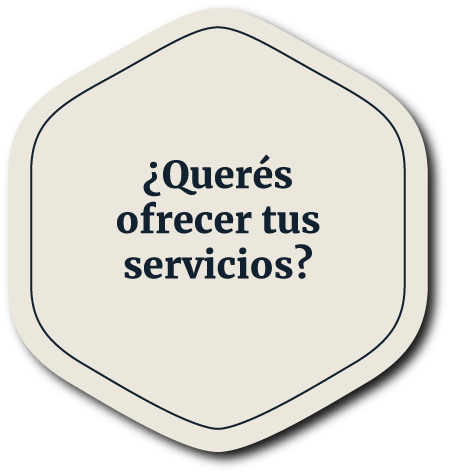
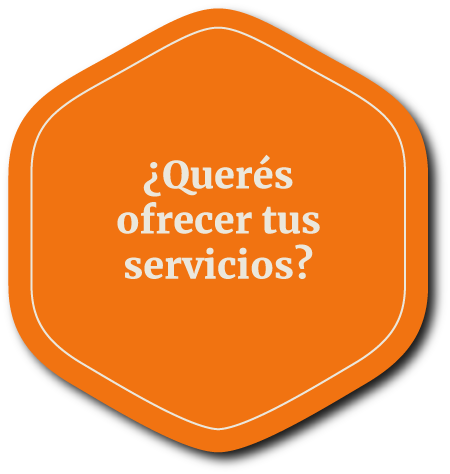
chore(home): button change

diff --git a/soluva/lib/screens/home_screen.dart b/soluva/lib/screens/home_screen.dart
@@ -2,7 +2,7 @@ import 'package:flutter/material.dart';
 import 'package:flutter_dotenv/flutter_dotenv.dart';
 import 'package:shared_preferences/shared_preferences.dart';
 import 'package:soluva/screens/auth_screen.dart';
-import 'package:soluva/screens/search_workers_screen.dart';
+// import 'package:soluva/screens/search_workers_screen.dart';
 import 'package:soluva/screens/worker_application_screen.dart';
 import 'package:soluva/screens/workers_list_screen.dart';
 import 'package:soluva/widgets/header_widget.dart';
@@ -44,7 +44,7 @@ class _HomePageState extends State<HomePage> {
         dotenv.env['default_cover_webp'] ?? 'assets/images/fondo-inicio.webp';
     final offerServiceBtn =
         dotenv.env['offer_service_button'] ??
-        'assets/images/boton_ofrecer_servicio.webp';
+        'assets/images/boton_ofrecer_servicio.png';
     final searchServiceBtn =
         dotenv.env['search_service_button'] ??
         'assets/images/boton_buscar_servicio.webp';
@@ -416,13 +416,27 @@ class _MainImageButton extends StatelessWidget {
 
   @override
   Widget build(BuildContext context) {
+    final screenWidth = MediaQuery.of(context).size.width;
+
+    // Calcular el ancho del botón como el 40% del ancho de la pantalla
+    // restando el espacio entre botones y los márgenes
+    final buttonWidth = (screenWidth - 48) * 0.45; // 48 = espaciado aproximado
+    final buttonHeight = buttonWidth * 1.02; // Mantener relación de aspecto similar a 210:215
+
+    // Establecer límites mínimos y máximos para evitar tamaños extremos
+    final finalWidth = buttonWidth.clamp(150.0, 250.0);
+    final finalHeight = buttonHeight.clamp(153.0, 255.0);
+
     return GestureDetector(
       onTap: onTap,
       child: ClipRRect(
-        borderRadius: BorderRadius.circular(
-          32,
-        ), // opcional, para bordes redondeados
-        child: Image.asset(image, width: 210, height: 215, fit: BoxFit.cover),
+        borderRadius: BorderRadius.circular(32),
+        child: Image.asset(
+          image,
+          width: finalWidth,
+          height: finalHeight,
+          fit: BoxFit.cover,
+        ),
       ),
     );
   }

diff --git a/soluva/lib/widgets/profile/profile_solicitudes.dart b/soluva/lib/widgets/profile/profile_solicitudes.dart
@@ -144,7 +144,11 @@ class _RequestCard extends StatelessWidget {
     final createdAt = request['created_at'] ?? '';
     final scheduledDate = request['scheduled_date'] ?? '';
     final status = request['status']?.toString().toLowerCase() ?? 'pending';
-    final cost = request['cost'] ?? 0;
+
+    // El cost viene como string desde el servicio
+    final costStr = request['cost']?.toString() ?? '0';
+    final cost = double.tryParse(costStr) ?? 0.0;
+
     final isRejected = request['rejected'] == true;
 
     DateTime? created;
@@ -223,7 +227,7 @@ class _RequestCard extends StatelessWidget {
                     ),
                   const SizedBox(height: 8),
                   Text(
-                    '\$${cost.toStringAsFixed(3)}',
+                    '\$${cost.toStringAsFixed(0)}',
                     style: const TextStyle(
                       fontSize: 20,
                       fontWeight: FontWeight.bold,
